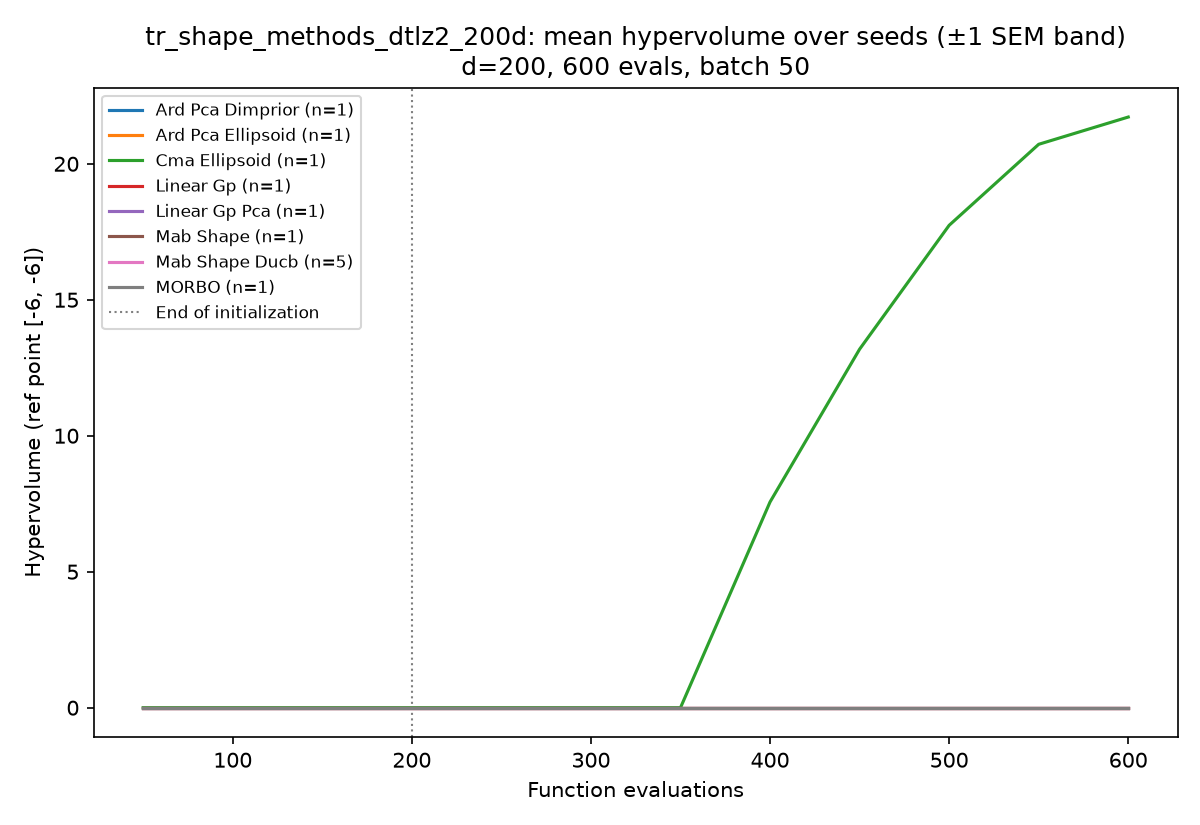
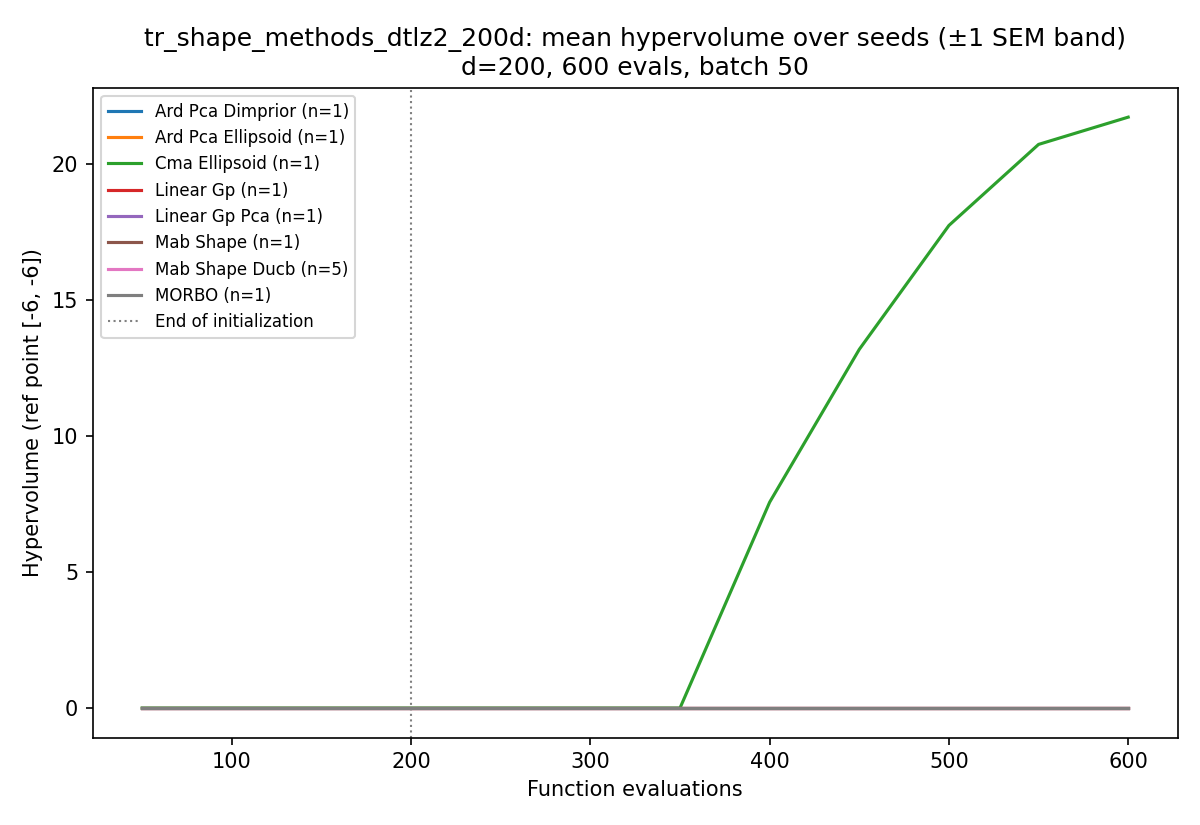
Analyze mab_shape_ducb results: two wins, one structural lesson
Test 1 (variance, d=100, 20 seeds): LARGELY FIXED -- epsilon-greedy's
24.44+/-7.19 at 15/20 becomes 31.41+/-3.50 at a perfect 20/20 (+69.8%),
within ~1 HV point of the best fixed arms while staying adaptive. D-UCB
is now the recommended bandit default.

Test 2 (non-stationarity, tv_keff49, 20 seeds): PARTIALLY FIXED -- ducb
triples epsilon-greedy's improvement (+2.9% -> +9.3%, 10/20 -> 16/20);
the regrowing-bonus mechanism demonstrably re-explores after the shift,
but re-learning still costs ~half of what fixed shapes get (+20-21%).

Test 3 (tight budget, d=200/600ev, 5 seeds): NOT FIXED -- 0.00 on all
seeds, same as epsilon-greedy, while pure cma_ellipsoid breaks through
(21.72). The structural insight: arm-switching itself dilutes
persistent-state arms -- cma's covariance only updates when its arm is
played, so any bandit gives the one arm that wins at d=200 a fraction of
its adaptation rate. The bandit abstraction breaks exactly where its best
arm gets better the more it's played. Next iteration: shared CMA state
updated from every batch, or commit-per-TR-lifetime designs.

RESULTS.md sec 11g, methods.tex future-work item updated with results,
FURTHER_DIRECTIONS next-phase entry marked done, 3 aggregate plots
regenerated with the ducb curves.

diff --git a/writeup/methods.tex b/writeup/methods.tex
@@ -1571,8 +1571,8 @@ tested anywhere in this study.
 Ranked by how directly the results above motivate them:
 
 \begin{enumerate}
-\item \textbf{A non-stationarity-robust bandit (implemented, results
-pending).} \S\ref{sec:twenty-seed}'s time-varying experiment localized
+\item \textbf{A non-stationarity-robust bandit (implemented; results in).}
+\S\ref{sec:twenty-seed}'s time-varying experiment localized
 \texttt{mab\_shape}'s failure precisely: per-arm reward estimates are only
 corrected for arms the policy replays, so they go stale when the landscape
 shifts, and a fixed $\varepsilon$ additionally taxes tight budgets. Both
@@ -1582,11 +1582,21 @@ discounted count $N_a$, decay both by $\gamma$ at every decision, and
 select $\arg\max_a \big( S_a/N_a + c\sqrt{\log \sum_b N_b \,/\, N_a}
 \big)$. A stale arm's $N_a$ decays, so its bonus \emph{regrows} and it is
 automatically replayed after a shift; bonuses anneal as counts grow, so
-there is no permanent exploration tax. Implemented as
-\texttt{mab\_policy="ducb"} (unit-verified for exploitation, sustained
-exploration, and post-shift re-adaptation), queued on the three
-discriminating regimes (time-varying $k_{\mathrm{eff}}{=}49$; the
-high-variance $d{=}100$ setting; tight-budget $d{=}200$).
+there is no permanent exploration tax. Results
+(\texttt{mab\_policy="ducb"}, 20 seeds): at $d{=}100$ it largely fixes
+the variance problem -- $24.44 \pm 7.19$ (15/20) becomes
+$\mathbf{31.41 \pm 3.50}$ at a perfect 20/20 ($+69.8\%$), within one HV
+point of the best fixed arms while remaining adaptive; on the mid-run
+switch it triples epsilon-greedy's improvement ($+2.9\% \to +9.3\%$,
+16/20) though still recovering only about half the fixed shapes'
+$+20$--$21\%$; and at tight-budget $d{=}200$ it remains at $0.00$ like
+epsilon-greedy, exposing a structural limit of the bandit abstraction
+itself: \texttt{cma\_ellipsoid}'s covariance only updates on iterations
+its arm is selected, so any arm-switching policy gives the one
+winning-at-$d{=}200$ arm a fraction of its adaptation rate. Natural next
+iteration: share the CMA covariance update across all arms (update from
+every batch, consume per-arm), or commit to one arm per trust-region
+lifetime.
 \item \textbf{Contextual gating by measured input-space effective
 dimension.} The LassoBench/Rover results say shaping should be
 \emph{switched off} when the local data has no low-dimensional input

diff --git a/experiments/tr_shape_dtlz2_100d/RESULTS.md b/experiments/tr_shape_dtlz2_100d/RESULTS.md
@@ -770,6 +770,53 @@ Three conclusions:
    moves the mean. `composite_dtlz2_ard_pca` (std 0.15) is the most
    reliable configuration tested anywhere in this study.
 
+### 11g. `mab_shape_ducb`: the discounted-UCB fix — two wins, one structural lesson
+
+`mab_policy="ducb"` (discounted UCB, Garivier & Moulines 2011: decayed
+per-arm reward sums/counts, exploration bonuses that regrow for stale
+arms and anneal as counts grow) was built to attack epsilon-greedy's two
+measured failure modes (§11d/e). Results on the three discriminating
+regimes:
+
+| Test | epsilon-greedy | **ducb** | best fixed shape |
+|---|---|---|---|
+| tv_keff49 (non-stationarity, 20 seeds) | +2.9% (10/20, std 3.24) | **+9.3% (16/20, std 2.28)** | cma +21.6% (20/20) |
+| methods_100d (variance, 20 seeds) | +33.5% (15/20, std 7.19) | **+69.8% (20/20, std 3.50)** | linear_gp_pca +78.9% (std 0.72) |
+| methods_200d/600ev (tight budget, 5 seeds) | 0.00 | **0.00 (5/5 seeds)** | cma 21.72 |
+
+**Win #1 — the variance problem is largely fixed** (the big one): at
+d=100, ducb turns epsilon-greedy's 24.44±7.19 (15/20) into
+**31.41±3.50 at a perfect 20/20** — more than doubling the paired
+improvement (+33.5% → +69.8%), halving the spread, and landing within
+~1 HV point of the best fixed arms (pca 32.34, linear_gp_pca 32.71)
+*while remaining fully adaptive*. The guaranteed round-robin init plus
+annealing bonuses eliminate the "some seeds never lock on" tail that
+made epsilon-greedy unreliable. **This is now the recommended bandit
+default.**
+
+**Win #2 — non-stationarity, partially**: on the mid-run dimension
+switch, ducb triples epsilon-greedy's improvement (+2.9% → +9.3%) and
+lifts the win-rate from a coin flip to 16/20 — the regrowing-bonus
+mechanism demonstrably re-explores after the shift. But it recovers only
+about half of what the fixed shapes get (+20-21%): re-learning still
+costs real budget that a fixed good arm never pays.
+
+**The structural lesson — tight budgets stay unsolved, and the reason
+matters**: at d=200/600ev, ducb scores exactly 0.00 on all 5 seeds, same
+as epsilon-greedy, while pure `cma_ellipsoid` alone breaks through
+(21.72). Annealed exploration wasn't the missing piece. The real issue is
+that **arm-switching itself dilutes persistent-state arms**:
+`cma_ellipsoid`'s covariance only updates on iterations when its arm is
+selected, so a bandit playing it ~1/5 of the time gives it ~1/5 the
+adaptation rate — and at d=200 the breakthrough window is narrow enough
+that only full-rate CMA makes it in time. The bandit's arms are not
+independent slot machines; one of them gets *better the more it's
+played*, which violates the bandit abstraction precisely in the regime
+where that arm is the only winner. Candidate fixes for a next iteration:
+update the CMA covariance from every batch regardless of which arm is
+active (shared state, per-arm consumption), or restarted-bandit designs
+that commit to one arm per trust-region lifetime.
+
 Plots, three per experiment directory:
 - `comparison_aggregate.png` — **the headline view**: mean HV-vs-evals
   curve per method over all available seeds with a ±1 SEM band (the

diff --git a/writeup/FURTHER_DIRECTIONS.md b/writeup/FURTHER_DIRECTIONS.md
@@ -315,7 +315,18 @@ validation once LassoBench is done.
 The 20-seed program (RESULTS.md §11) resolved most open questions and
 created one sharply-motivated new method. Current ranked queue:
 
-1. **`mab_shape_ducb` — CODED, queued (`cluster/submit_mab_ducb.sh`, 45
+1. **`mab_shape_ducb` — DONE, results in (RESULTS.md §11g).** Verdict:
+   two wins, one structural lesson. At d=100 it largely fixes the variance
+   problem (24.44±7.19 at 15/20 → **31.41±3.50 at 20/20**, +69.8% — within
+   ~1 HV point of the best fixed arms while staying adaptive; **now the
+   recommended bandit default**). On the mid-run switch it triples
+   epsilon-greedy's improvement (+2.9% → +9.3%, 16/20) but recovers only
+   ~half the fixed shapes' +20-21%. At tight-budget d=200 it stays at 0.00:
+   arm-switching itself dilutes persistent-state arms (cma's covariance
+   only updates when its arm is played), a structural limit of the bandit
+   abstraction — next iteration: shared CMA state updated from every batch,
+   or commit-per-TR-lifetime designs. Original design notes:
+   (`cluster/submit_mab_ducb.sh`, 45
    jobs).** Discounted-UCB arm selection (`mab_policy="ducb"`,
    Garivier & Moulines 2011) replacing epsilon-greedy. Directly targets the
    two failure modes §11d/e *measured*: stale per-arm reward estimates